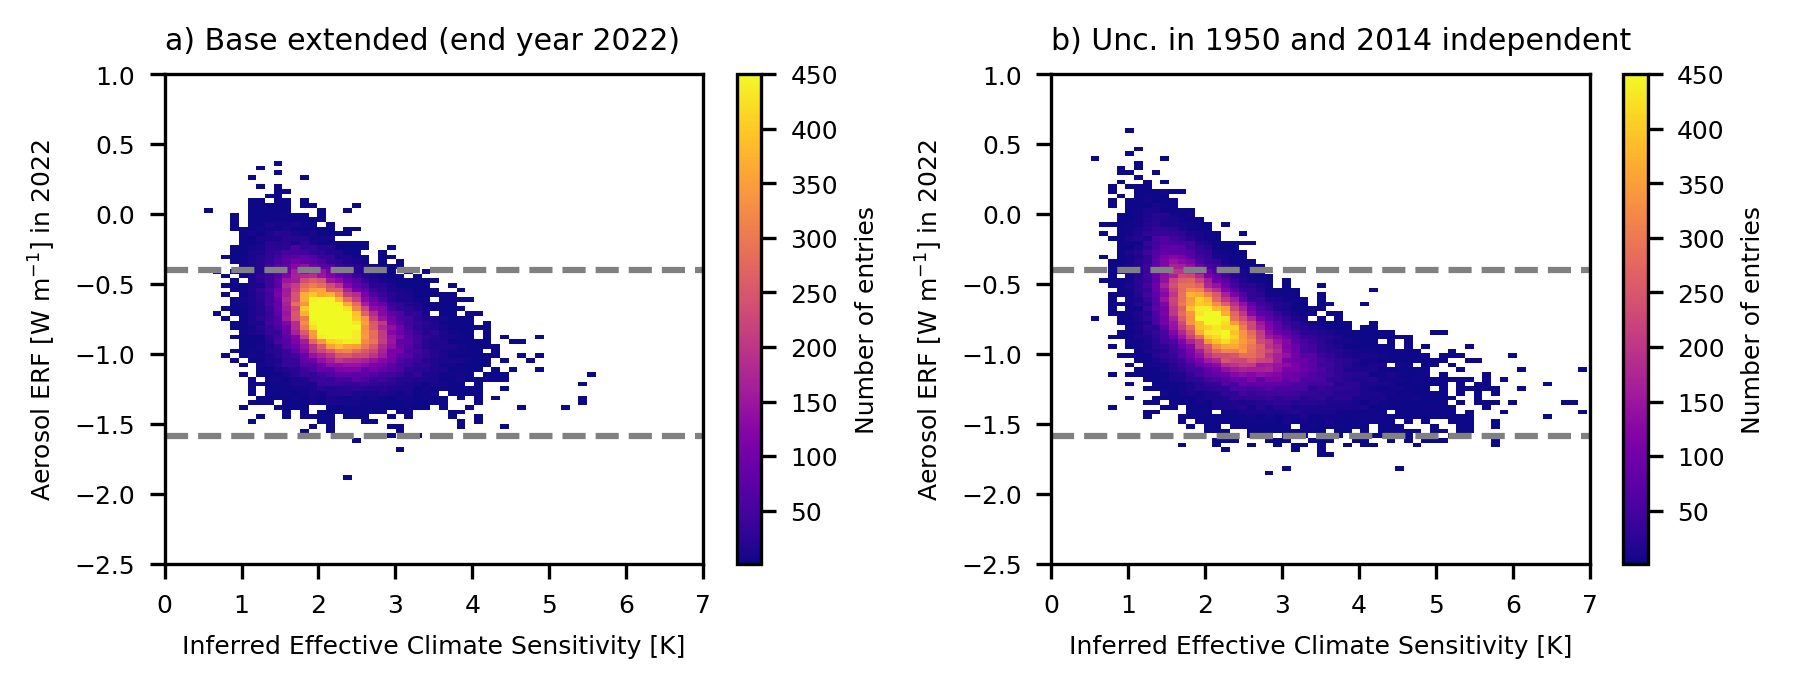
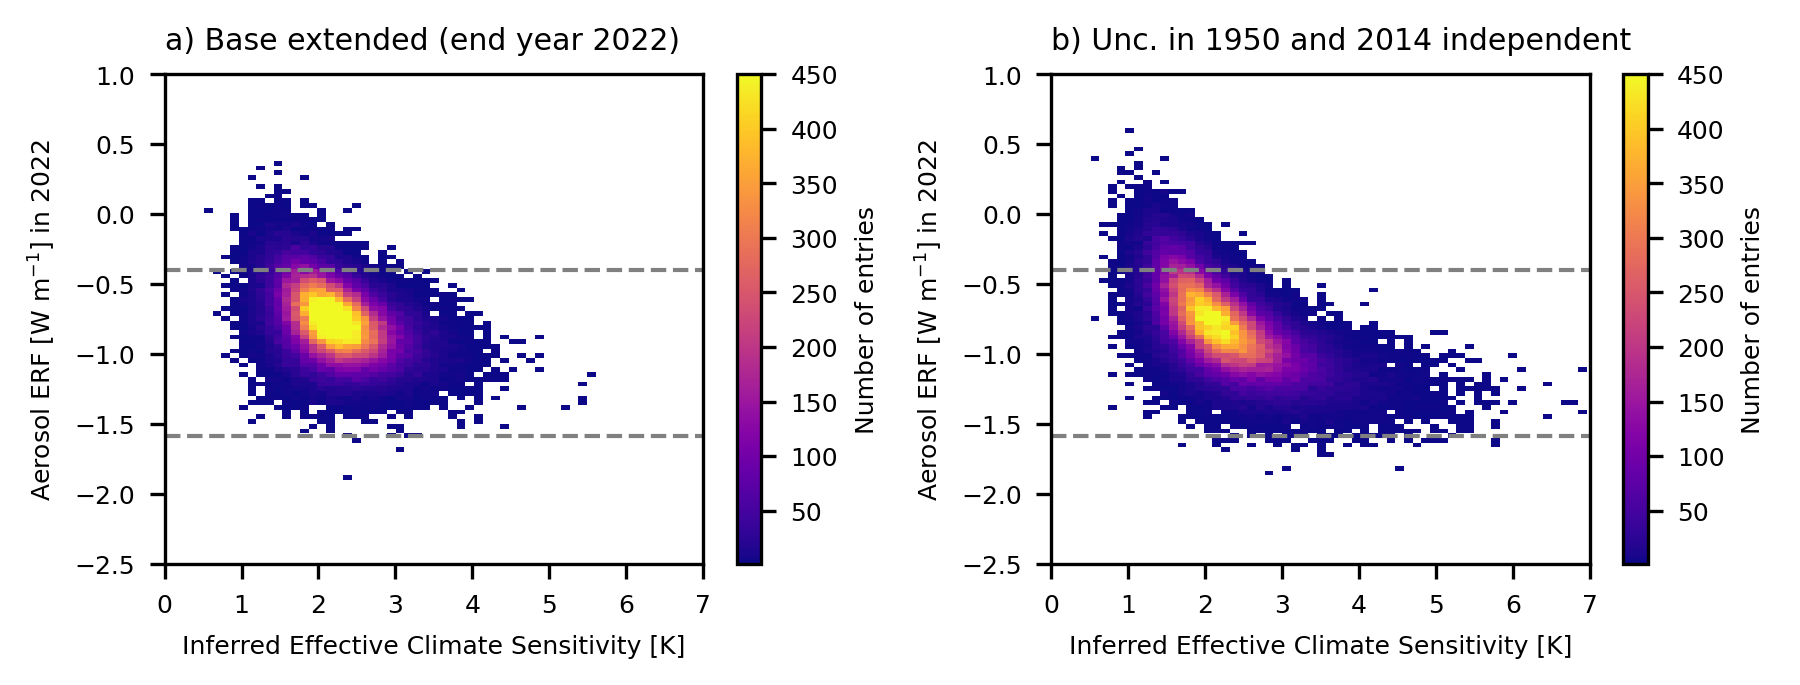
small fixes

diff --git a/scripts_for_figures/plot_heatmap_erf_ecsinf.py b/scripts_for_figures/plot_heatmap_erf_ecsinf.py
@@ -12,18 +12,29 @@ def plot_heatmap():
 
     
     #Read data climate sensitivity:
-    path_ecs = '/div/qbo/utrics/ClimateSensitivity/updateAR6/scripts_other/ECS_useCO2ERF/results_csv/'
-    filename = 'post_ecs_inf_'+scen+'.csv'
-    post_ecs = pd.read_csv(path_ecs+filename,index_col=0)
+    #path_ecs = '/div/qbo/utrics/ClimateSensitivity/updateAR6/scripts_other/ECS_useCO2ERF/results_csv/'
+    #filename = 'post_ecs_inf_'+scen+'.csv'
+    #post_ecs = pd.read_csv(path_ecs+filename,index_col=0)
+    #post_ecs = post_ecs['0']
+    #print(post_ecs)
+
+    #post_ecs.to_csv('results_csv/posteriori_ecs_inf_'+scen+'.csv')
+    post_ecs = pd.read_csv('results_csv/posteriori_ecs_inf_'+scen+'.csv',index_col=0)
     post_ecs = post_ecs['0']
     print(post_ecs)
-
+    
+    
     #Read data on ERF in end year.
-    path_erf = '/div/qbo/utrics/ClimateSensitivity/updateAR6/scripts_other/ERFtrend/results_csv/'
-    filename = 'rf_posterior_timeseriesaero'+scen+'.csv'
-    post_erf = pd.read_csv(path_erf+filename,index_col=0)
-    post_erf = post_erf.loc[year_end]
+    #path_erf = '/div/qbo/utrics/ClimateSensitivity/updateAR6/scripts_other/ERFtrend/results_csv/'
+    #filename = 'rf_posterior_timeseriesaero'+scen+'.csv'
+    #post_erf = pd.read_csv(path_erf+filename,index_col=0)
+    #post_erf = post_erf.loc[year_end]
+    #print(post_erf)
+    #post_erf.to_csv('results_csv/posteriori_erf_'+scen+'.csv')
+    post_erf = pd.read_csv('results_csv/posteriori_erf_'+scen+'.csv',index_col=0)
+    post_erf = post_erf[str(year_end)]
     print(post_erf)
+
     
     
     
@@ -69,8 +80,8 @@ def plot_heatmap():
     rf_ar6_perc95 = pd.read_csv(path+filename,index_col=0)
     
     
-    ax.axhline(rf_ar6_perc05['aerosol'].loc[year_end+0.5],linestyle='--',color='gray')
-    ax.axhline(rf_ar6_perc95['aerosol'].loc[year_end+0.5],linestyle='--',color='gray')
+    ax.axhline(rf_ar6_perc05['aerosol'].loc[year_end+0.5],linewidth=1,linestyle='--',color='gray')
+    ax.axhline(rf_ar6_perc95['aerosol'].loc[year_end+0.5],linewidth=1,linestyle='--',color='gray')
     
     ax.set_xlim([0,7])
     ax.set_ylim([-2.5,1])
